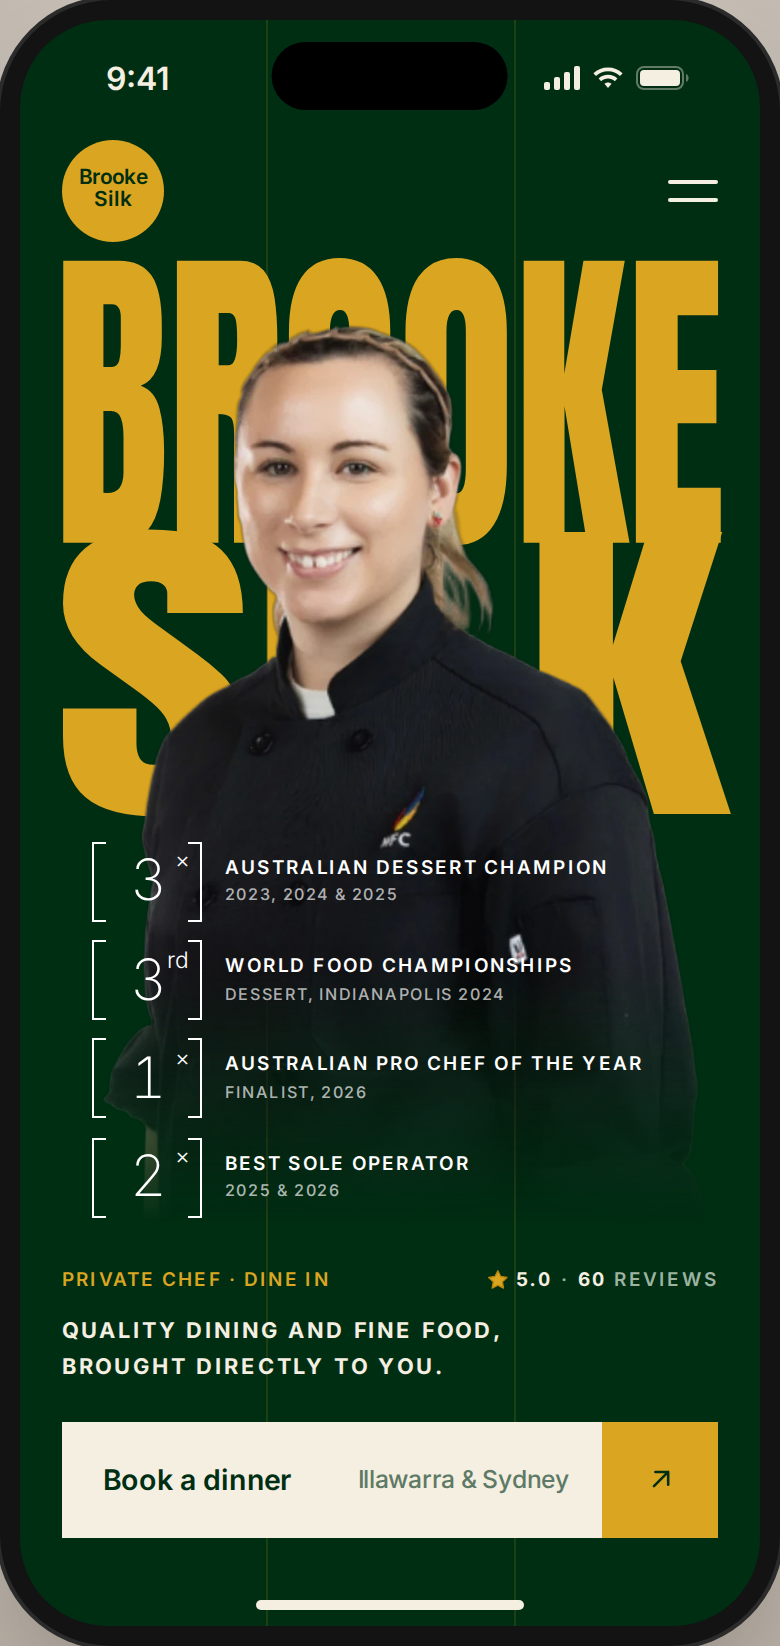
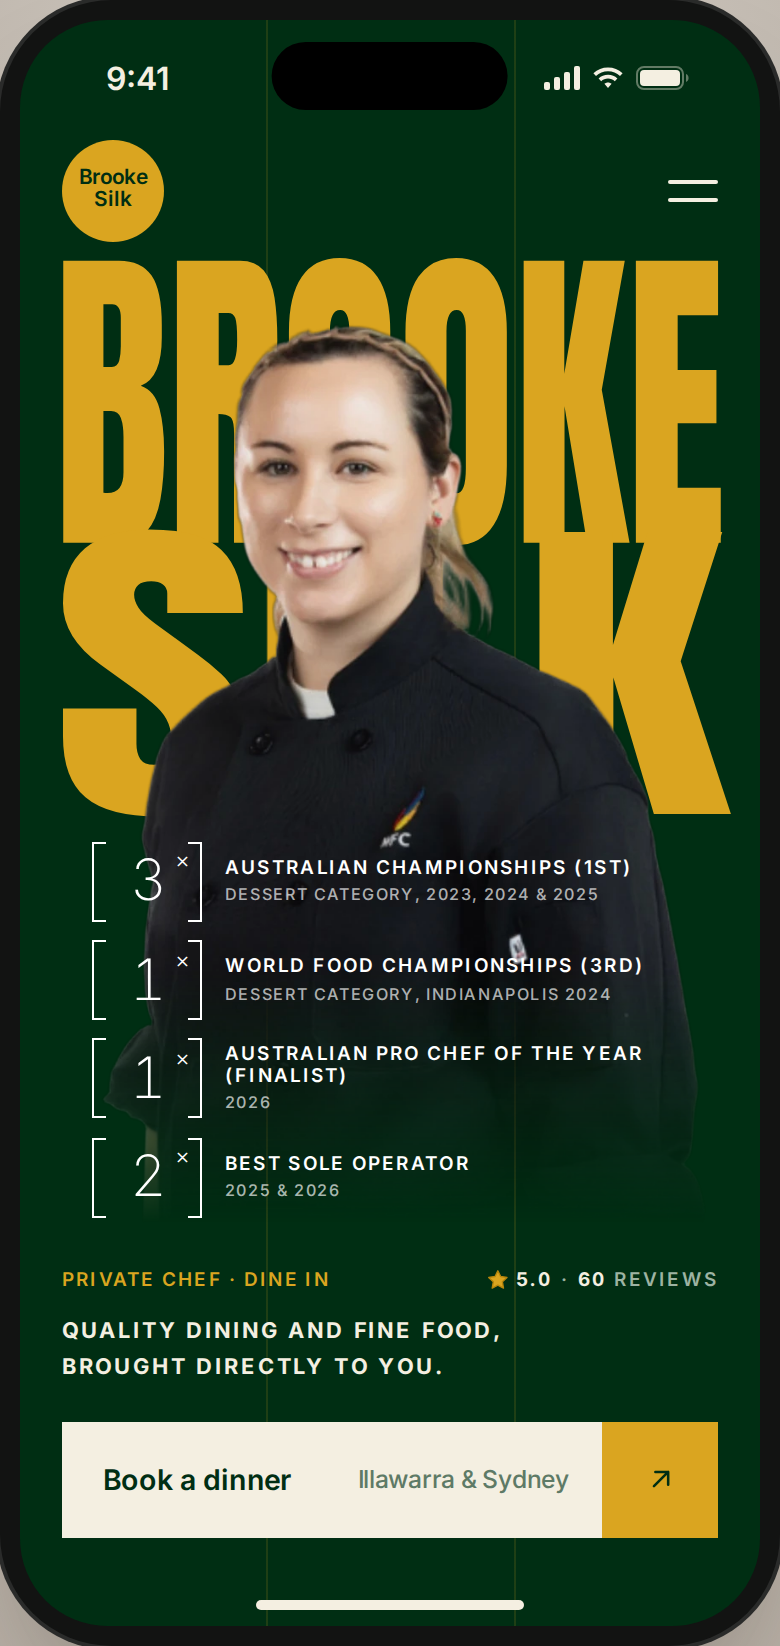
Chef card: reword the awards as count, title (placing), category
- 3x Australian Championships (1st), dessert category, 2023, 2024 & 2025
- 1x World Food Championships (3rd), dessert category, Indianapolis 2024
- 1x Australian Pro Chef of the Year (Finalist), 2026
- 2x Best Sole Operator, 2025 & 2026

The awards list now has a right edge, so a long title wraps inside the
card instead of running off it.

Claude-Session: https://claude.ai/code/session_01Dn2sZdZCxPbGjUxXXUAMP8

diff --git a/components/chef-card/index.html b/components/chef-card/index.html
@@ -135,15 +135,15 @@
         <ul class="ui-chef__stats" data-ui-chef-stagger="100" aria-label="Awards">
           <li class="ui-chef__stat">
             <span class="ui-chef__stat-num"><span data-ui-chef-count>3</span><sup>×</sup></span>
-            <span class="ui-chef__stat-label"><span>Australian dessert champion</span><span class="ui-chef__stat-sub">2023, 2024 &amp; 2025</span></span>
-          </li>
-          <li class="ui-chef__stat">
-            <span class="ui-chef__stat-num"><span data-ui-chef-count>3</span><sup>rd</sup></span>
-            <span class="ui-chef__stat-label"><span>World Food Championships</span><span class="ui-chef__stat-sub">Dessert, Indianapolis 2024</span></span>
+            <span class="ui-chef__stat-label"><span>Australian Championships (1st)</span><span class="ui-chef__stat-sub">Dessert category, 2023, 2024 &amp; 2025</span></span>
           </li>
           <li class="ui-chef__stat">
             <span class="ui-chef__stat-num"><span data-ui-chef-count>1</span><sup>×</sup></span>
-            <span class="ui-chef__stat-label"><span>Australian Pro Chef of the Year</span><span class="ui-chef__stat-sub">Finalist, 2026</span></span>
+            <span class="ui-chef__stat-label"><span>World Food Championships (3rd)</span><span class="ui-chef__stat-sub">Dessert category, Indianapolis 2024</span></span>
+          </li>
+          <li class="ui-chef__stat">
+            <span class="ui-chef__stat-num"><span data-ui-chef-count>1</span><sup>×</sup></span>
+            <span class="ui-chef__stat-label"><span>Australian Pro Chef of the Year (Finalist)</span><span class="ui-chef__stat-sub">2026</span></span>
           </li>
           <li class="ui-chef__stat">
             <span class="ui-chef__stat-num"><span data-ui-chef-count>2</span><sup>×</sup></span>

diff --git a/components/chef-card/style.css b/components/chef-card/style.css
@@ -185,6 +185,7 @@
   position: absolute;
   top: calc(var(--ui-chef-inset-top) + 384 * var(--u));
   left: calc(38 * var(--u));
+  right: calc(22 * var(--u));     /* long titles wrap rather than run off the card */
   z-index: 3;
   display: grid;
   gap: calc(10 * var(--u));

diff --git a/components/chef-card/README.md b/components/chef-card/README.md
@@ -9,10 +9,12 @@ The Dine In edition of the [profile card](../profile-card/), for private chef Br
   - Name: "BROOKE / SILK" in gold, each line stretched to the full width. The lines touch, and the portrait covers their middle.
   - Portrait: Brooke from the head to just below the pocket, in her black chef's jacket. It fades into the green around the hem.
   - Awards: four bracketed stats stacked in white on the jacket, each with a title and a smaller detail line:
-    - `[3×]` Australian dessert champion: 2023, 2024 & 2025 (World Food Championships Australia)
-    - `[3rd]` World Food Championships: dessert, Indianapolis 2024
-    - `[1×]` Australian Pro Chef of the Year: finalist, 2026
+    - `[3×]` Australian Championships (1st): dessert category, 2023, 2024 & 2025
+    - `[1×]` World Food Championships (3rd): dessert category, Indianapolis 2024
+    - `[1×]` Australian Pro Chef of the Year (Finalist): 2026
     - `[2×]` Best Sole Operator: 2025 & 2026
+
+    The bracket shows how many times, the placing sits in brackets after the title, and long titles wrap inside the card.
   - Meta row: "Private chef · Dine In" in gold on the left, and her Google rating (★ 5.0 · 60 reviews) on the right.
   - Tagline: "Quality dining and fine food, brought directly to you." in tracked ivory uppercase.
   - Button: an ivory bar with "Book a dinner" and the service area "Illawarra & Sydney", plus a gold square with an arrow.
@@ -22,7 +24,7 @@ The Dine In edition of the [profile card](../profile-card/), for private chef Br
   1. The name types out letter by letter (BROOKE, a short pause, then SILK) behind a blinking gold caret.
   2. As the last letter lands, the portrait opens out from the centre of the face.
   3. The information then loads one row at a time:
-     - the awards, as one row: they fill in 0.1s apart, and each number counts up as it lands (0 → 3×, 0 → 3rd, 0 → 1×, 0 → 2×)
+     - the awards, as one row: they fill in 0.1s apart, and each number counts up as it lands (0 → 3×, 0 → 1×, 0 → 1×, 0 → 2×)
      - after a short pause, the meta row: ★ 0.0 → 5.0 and 0 → 60 reviews. When the rating reaches 5.0, gold sparkles fly into the star, and it jumps, turns gold and stays gold.
      - after a short pause, the tagline
      - after another short pause, the button
@@ -74,15 +76,15 @@ Plain HTML, CSS and vanilla JS, no dependencies. Classes are prefixed `ui-chef`,
     <ul class="ui-chef__stats" data-ui-chef-stagger="100" aria-label="Awards">
       <li class="ui-chef__stat">
         <span class="ui-chef__stat-num"><span data-ui-chef-count>3</span><sup>×</sup></span>
-        <span class="ui-chef__stat-label"><span>Australian dessert champion</span><span class="ui-chef__stat-sub">2023, 2024 &amp; 2025</span></span>
-      </li>
-      <li class="ui-chef__stat">
-        <span class="ui-chef__stat-num"><span data-ui-chef-count>3</span><sup>rd</sup></span>
-        <span class="ui-chef__stat-label"><span>World Food Championships</span><span class="ui-chef__stat-sub">Dessert, Indianapolis 2024</span></span>
+        <span class="ui-chef__stat-label"><span>Australian Championships (1st)</span><span class="ui-chef__stat-sub">Dessert category, 2023, 2024 &amp; 2025</span></span>
       </li>
       <li class="ui-chef__stat">
         <span class="ui-chef__stat-num"><span data-ui-chef-count>1</span><sup>×</sup></span>
-        <span class="ui-chef__stat-label"><span>Australian Pro Chef of the Year</span><span class="ui-chef__stat-sub">Finalist, 2026</span></span>
+        <span class="ui-chef__stat-label"><span>World Food Championships (3rd)</span><span class="ui-chef__stat-sub">Dessert category, Indianapolis 2024</span></span>
+      </li>
+      <li class="ui-chef__stat">
+        <span class="ui-chef__stat-num"><span data-ui-chef-count>1</span><sup>×</sup></span>
+        <span class="ui-chef__stat-label"><span>Australian Pro Chef of the Year (Finalist)</span><span class="ui-chef__stat-sub">2026</span></span>
       </li>
       <li class="ui-chef__stat">
         <span class="ui-chef__stat-num"><span data-ui-chef-count>2</span><sup>×</sup></span>
@@ -111,7 +113,7 @@ Plain HTML, CSS and vanilla JS, no dependencies. Classes are prefixed `ui-chef`,
 <script src="script.js"></script>
 ```
 
-The awards are a list (`ui-chef__stats`). Each `ui-chef__stat` has a bracketed number and a label with a title and a `ui-chef__stat-sub` detail line. A `<sup>` after the number (×, rd) sits top right, and a `<sup class="ui-chef__stat-pre">` before it (for example "Top") sits top left. None of the current awards uses it. The number then drops and shrinks a little to clear it, so two digits fit. The list loads as one row of the intro, with `data-ui-chef-stagger="100"` starting each number 100ms after the last, matching the CSS stagger. Four awards fit on the jacket; for more, raise the list's `top` or tighten its `gap`.
+The awards are a list (`ui-chef__stats`). Each `ui-chef__stat` has a bracketed number and a label with a title and a `ui-chef__stat-sub` detail line. A `<sup>` after the number (×) sits top right, and a `<sup class="ui-chef__stat-pre">` before it (for example "Top") sits top left. None of the current awards uses it. The number then drops and shrinks a little to clear it, so two digits fit. The list loads as one row of the intro, with `data-ui-chef-stagger="100"` starting each number 100ms after the last, matching the CSS stagger. Four awards fit on the jacket; for more, raise the list's `top` or tighten its `gap`.
 
 The caret is the `ui-chef__caret` rect inside the name's SVG. Mark any number that should count with `data-ui-chef-count`, as in `<span data-ui-chef-count>2</span><sup>×</sup>`. The number written in the HTML is the one it ends on, and the one shown without the script. It counts up from 0 unless `data-ui-chef-count-from` gives another start. A start above the final number makes it count down, so a price like `from $<span data-ui-chef-count data-ui-chef-count-from="100">60</span>` counts down to 60. To add a short pause before a row loads, put `data-ui-chef-pause` on it with a time in milliseconds. The meta row uses `data-ui-chef-pause="300"`, and the tagline and button each use `200`.
 
